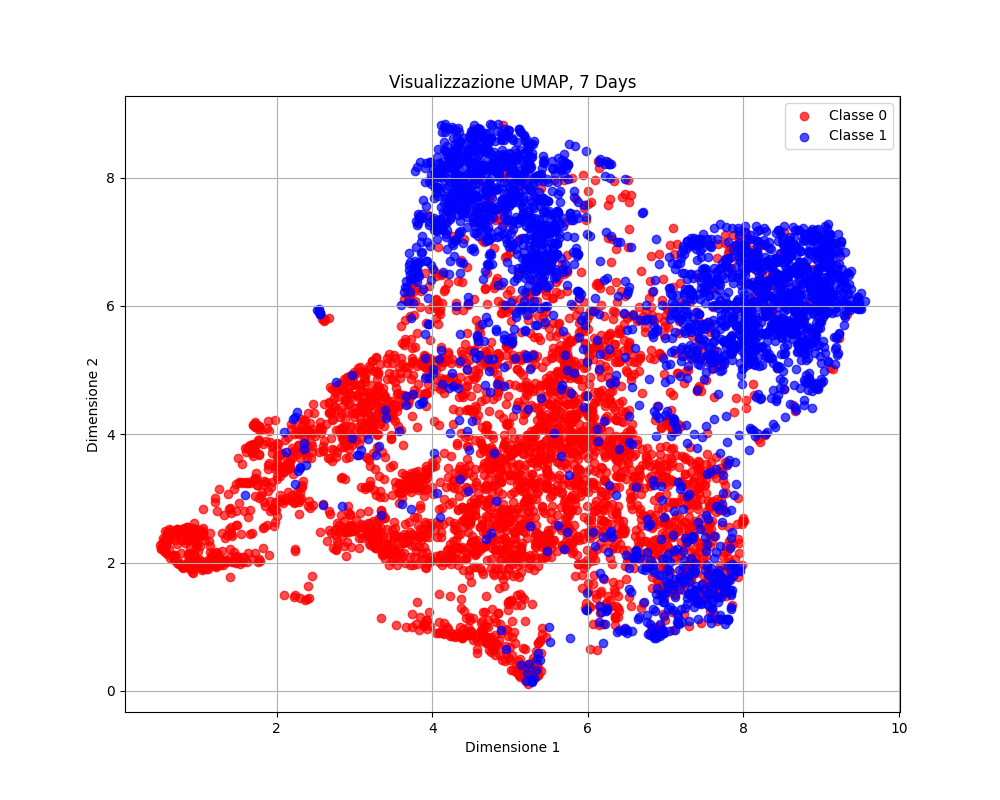
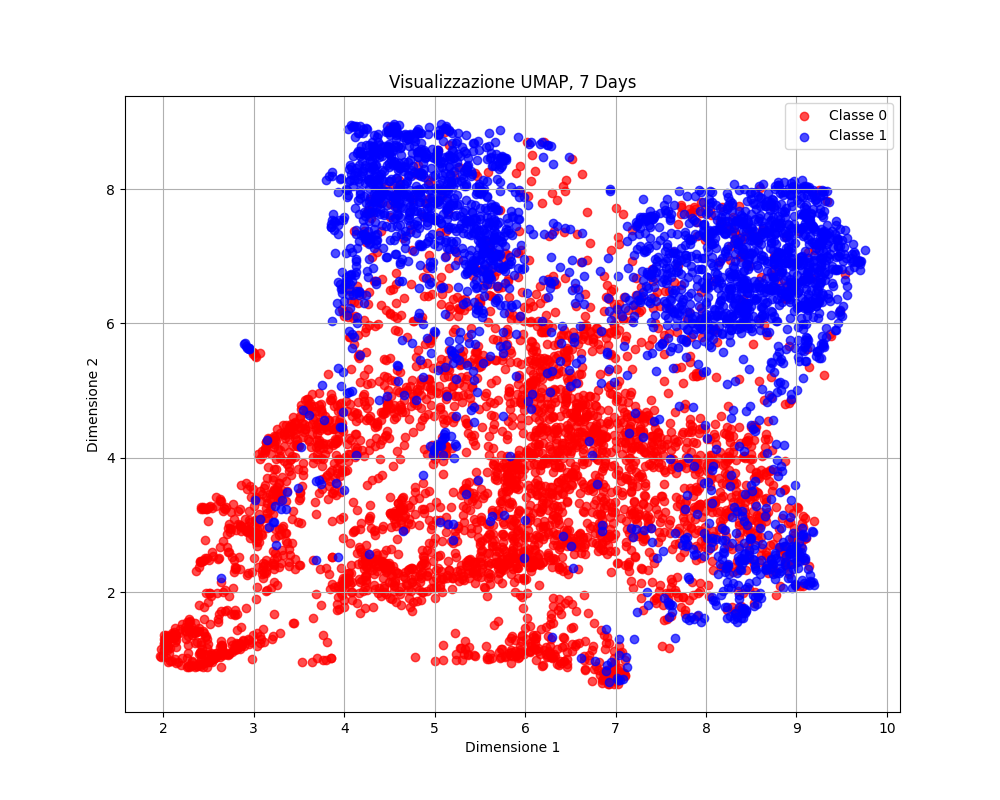
Another fix

diff --git a/_02_temporalData/_mainTimeSeriesProcessing.py b/_02_temporalData/_mainTimeSeriesProcessing.py
@@ -19,9 +19,8 @@ from _02_temporalData._01_fromPklToCsv import fromPickleToCsv, create_final_csv
 from _02_temporalData._02_dimReduction import compute_tSNE, compute_UMAP
 
 
-def main(embedding_type="UMAP", num_max_days=7, days_to_consider_dim_reduction=7):
+def main(embedding_type="UMAP", num_max_days=7, days_to_consider_dim_reduction=[7]):
     # importo e trasformo i file pkl salvati al passo precedente (o qualsiasi file pickle con stesso formato: key (dish_well) e valori della serie)
-    os.makedirs(conf.temporal_csv_path, exist_ok=True)
     path_pkl = conf.path_pkl
     output_temporal_csv_path = conf.temporal_csv_path
     num_frames_MaxDays = utils.num_frames_by_days(num_max_days)
@@ -35,10 +34,11 @@ def main(embedding_type="UMAP", num_max_days=7, days_to_consider_dim_reduction=7
 
     # Rappresentazione visuale dei dati: embedding tramite umap e/o tSNE
     final_csv_path = conf.final_csv_path
-    output_path_base = conf.csv_file_Danilo_path
+    output_path_base = os.path.join(current_dir, "dim_reduction_files")
+    os.makedirs(output_path_base, exist_ok=True)
 
     for day in days_to_consider_dim_reduction:
-        max_frames = utils.num_frames_by_days(days_to_consider_dim_reduction)
+        max_frames = utils.num_frames_by_days(day)
 
         if embedding_type.lower()=="umap":
             print("Computing UMAP...")

diff --git a/_02_temporalData/_01_fromPklToCsv.py b/_02_temporalData/_01_fromPklToCsv.py
@@ -52,7 +52,7 @@ def create_final_csv(input_temporal_csv_path, original_csv_path, output_final_cs
     # Elimina duplicati
     temporal_data = temporal_data.drop_duplicates(subset=["dish_well"], keep="first")
     labels_data = labels_data.drop_duplicates(subset=["dish_well"], keep="first")
-    print(f"========== Duplicati Eliminati! ==========")
+    print(f"\n========== Duplicati Eliminati! ==========\n")
 
     '''
     Duplicati trovati in labels_data:
